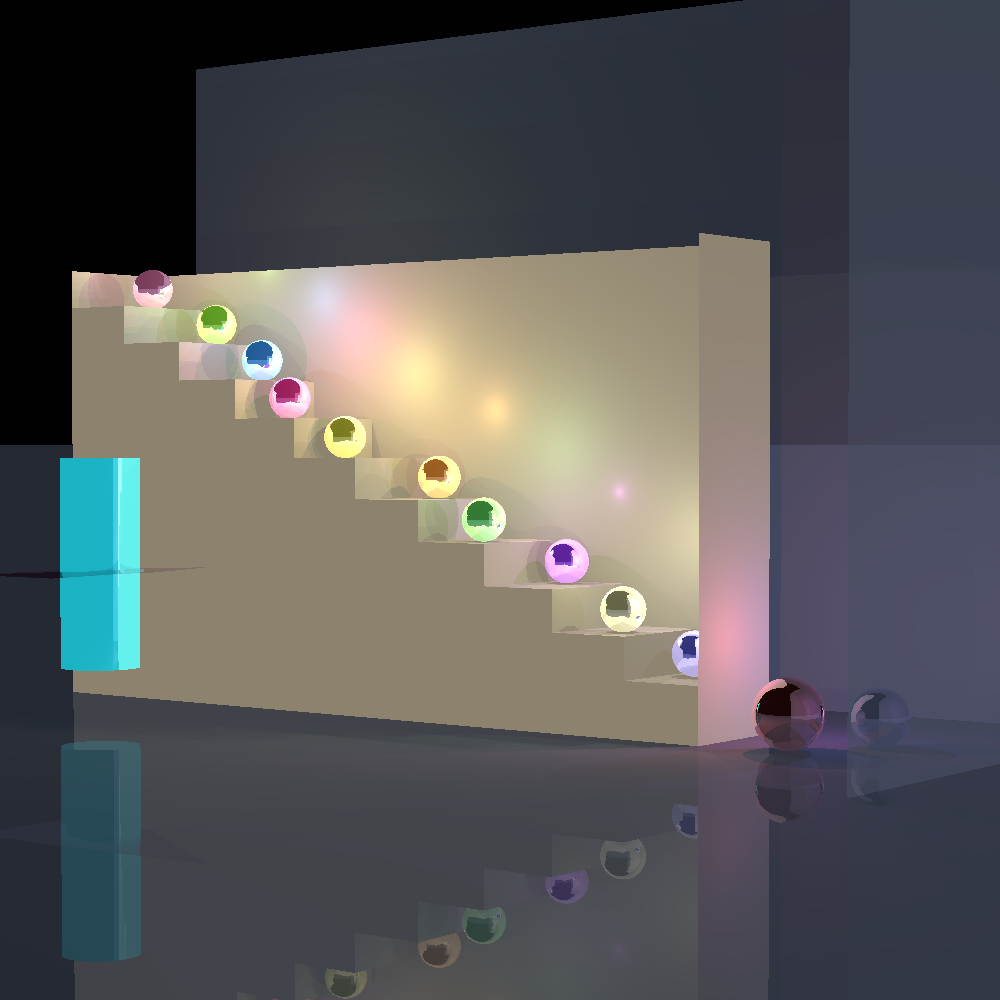
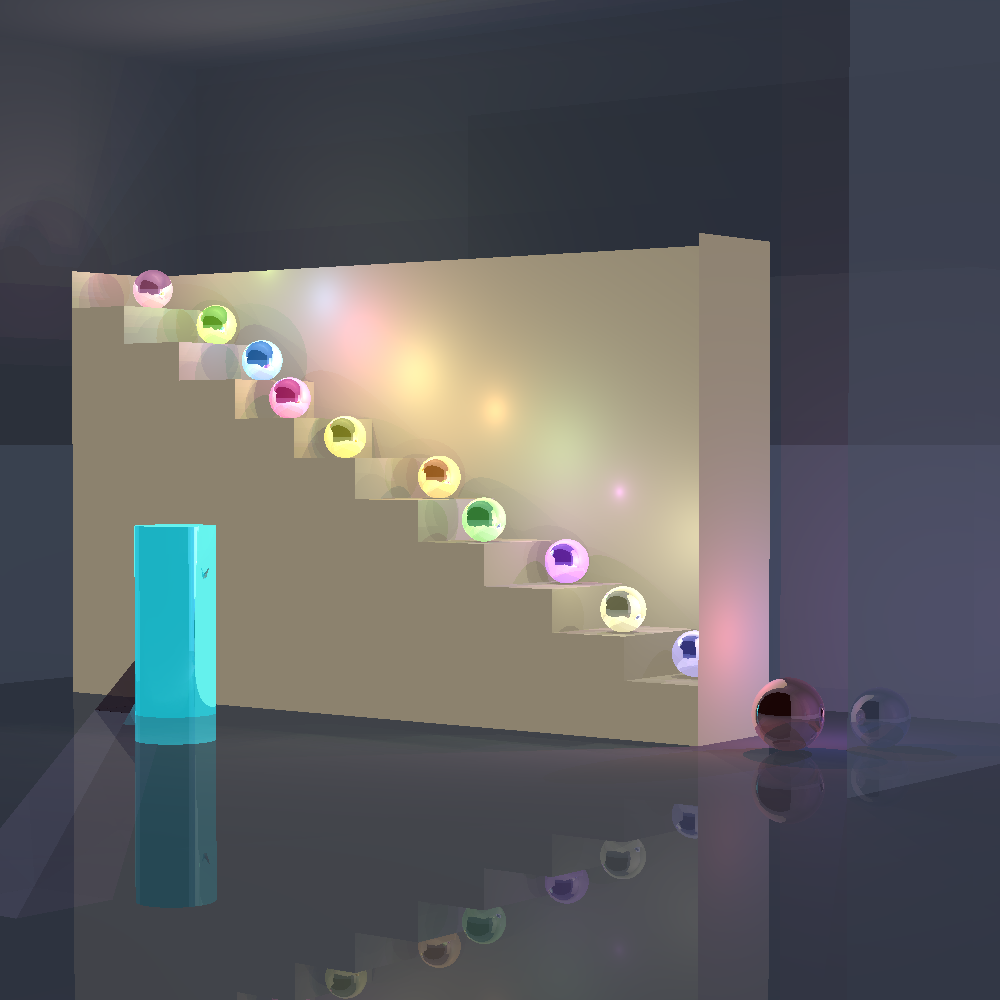
try foto

diff --git a/unittests/renderer/ReflectionRefractionTests.java b/unittests/renderer/ReflectionRefractionTests.java
@@ -2695,10 +2695,10 @@ void minimalisticStaircaseWithSpotlightTest1() {
    addBaseStructure1(scene, -150, 0, -stepDepth/2, 150, -20, stepDepth/2, stairColor, stairMaterial);
 
    // --- פירמידה גדולה ליד הצילינדר בצד שמאל-למטה של התמונה, ליד המדרגות ---
-   Point pyramidBase1 = new Point(60, -20, -80);
-   Point pyramidBase2 = new Point(105, -20, -80);
-   Point pyramidBase3 = new Point(105, -20, -30);
-   Point pyramidBase4 = new Point(60, -20, -30);
+   Point pyramidBase1 = new Point(120, -100, -80);
+   Point pyramidBase2 = new Point(165, -100, -80);
+   Point pyramidBase3 = new Point(165, -100, -30);
+   Point pyramidBase4 = new Point(120, -100, -30);
    Point pyramidApex = new Point(42.5, 35, -55); // גבוה ומשמעותי
 
    Material pyramidMaterial = new Material()
@@ -2773,6 +2773,15 @@ void minimalisticStaircaseWithSpotlightTest1() {
                    .setEmission(stairColor)
                    .setMaterial(stairMaterial)
    );
+   scene.geometries.add(
+           new Polygon(
+                   new Point(-250, 250, -100),   // פינה שמאלית אחורית למעלה
+                   new Point(200, 250, -100),    // פינה ימנית אחורית למעלה
+                   new Point(200, 250, 100),     // פינה ימנית קדמית למעלה
+                   new Point(-250, 250, 100))    // פינה שמאלית קדמית למעלה
+                   .setEmission(wallColor)
+                   .setMaterial(wallMaterial)
+   );
 
    // --- Stairs ---
    for (int i = 0; i < 10; i++) {
@@ -2821,6 +2830,18 @@ void minimalisticStaircaseWithSpotlightTest1() {
                          .setEmission(stairColor)
                          .setMaterial(stairMaterial)
          );
+         //############################################
+         scene.geometries.add(
+                 new Polygon(
+                         new Point(200, -20, -100),   // פינה ימנית אחורית למטה
+                         new Point(200, -20, 100),    // פינה ימנית קדמית למטה
+                         new Point(200, 250, 100),    // פינה ימנית קדמית למעלה
+                         new Point(200, 250, -100)    // פינה ימנית אחורית למעלה
+                 )
+                         .setEmission(wallColor)
+                         .setMaterial(wallMaterial)
+         );
+         //#############################################333
       }
    }
 
@@ -3047,7 +3068,7 @@ void minimalisticStaircaseWithSpotlightTest1() {
       );
       // צילינדר גדול בצד שמאל-למטה של התמונה, ליד המדרגות
       scene.geometries.add(
-              new Cylinder(new Ray(new Point(60, -5, -55), new Vector(0, 1, 0)), 15d, 80d)
+              new Cylinder(new Ray(new Point(60, -30, -55), new Vector(0, 1, 0)), 15d, 80d)
                       .setEmission(new Color(2, 150, 160))
                       .setMaterial(new Material()
                               .setKD(0.2).setKS(0.8).setShininess(150)
